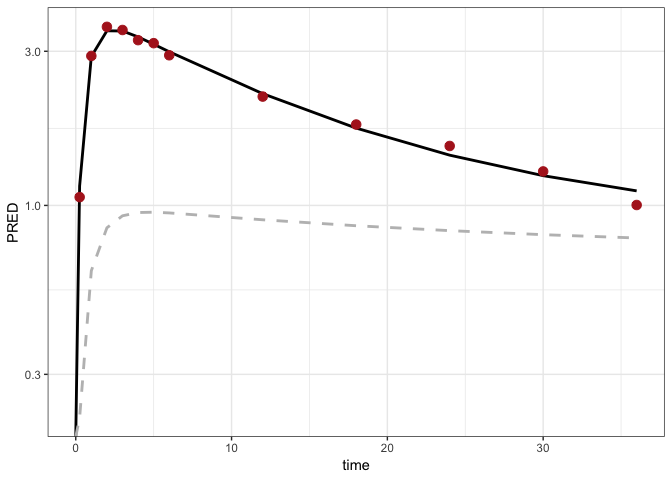
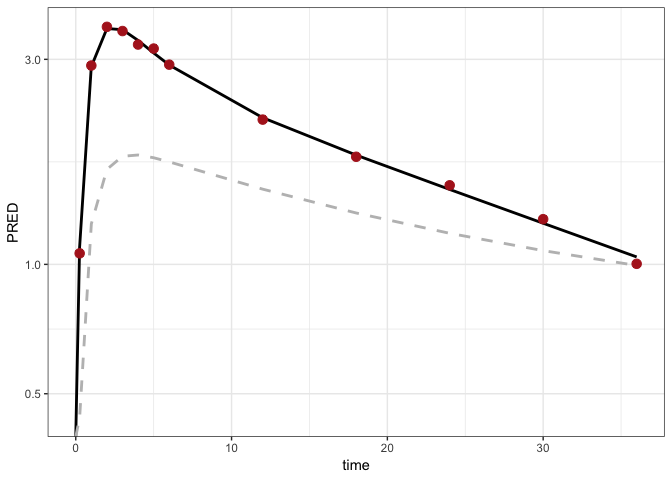
README tweak initials

diff --git a/README.md b/README.md
@@ -39,7 +39,7 @@ ggplot(data, aes(time,DV)) + geom_point() + theme_bw()
 Define a parameter list
 
 ``` r
-theta <- all_log(CL = 0.1, V2 = 100, Q = 1, V3 = 30, KA = 1, sigma=1)
+theta <- all_log(CL = 0.5, V2 = 50, Q = 1, V3 = 30, KA = 1, sigma=1)
 ```
 
 Fit the
@@ -54,11 +54,7 @@ fit <- fit_nl(theta, data, pred_name= "CP", cov_step=TRUE, pred_initial=TRUE)
     . Fitting with els ...done.
     . Generating predictions.
     . Trying cov step ... Loading required namespace: nlme
-
-    . Warning in sqrt(diag(solve(co$Hessian))): NaNs produced
-
-    . Warning in cov_step(fit, ofv, theta, vdat, pred_name, sigma = sigma):
-    . trouble with cov step
+    . success.
 
 Result
 
@@ -67,14 +63,14 @@ fit$tab
 ```
 
     . # A tibble: 6 x 4
-    .   par   start    final       se
-    .   <chr> <dbl>    <dbl>    <dbl>
-    . 1 CL      0.1  0.301   NaN     
-    . 2 V2    100   24.7       0.0185
-    . 3 Q       1    1.20    NaN     
-    . 4 V3     30   49.8     NaN     
-    . 5 KA      1    1.35      0.0520
-    . 6 sigma   1    0.00485   0.394
+    .   par   start    final     se
+    .   <chr> <dbl>    <dbl>  <dbl>
+    . 1 CL      0.5  0.955   0.0308
+    . 2 V2     50   21.5     0.0565
+    . 3 Q       1    1.89    0.279 
+    . 4 V3     30    8.87    0.120 
+    . 5 KA      1    1.10    0.0791
+    . 6 sigma   1    0.00153 0.408
 
 ``` r
 ggplot(fit$data) + 
